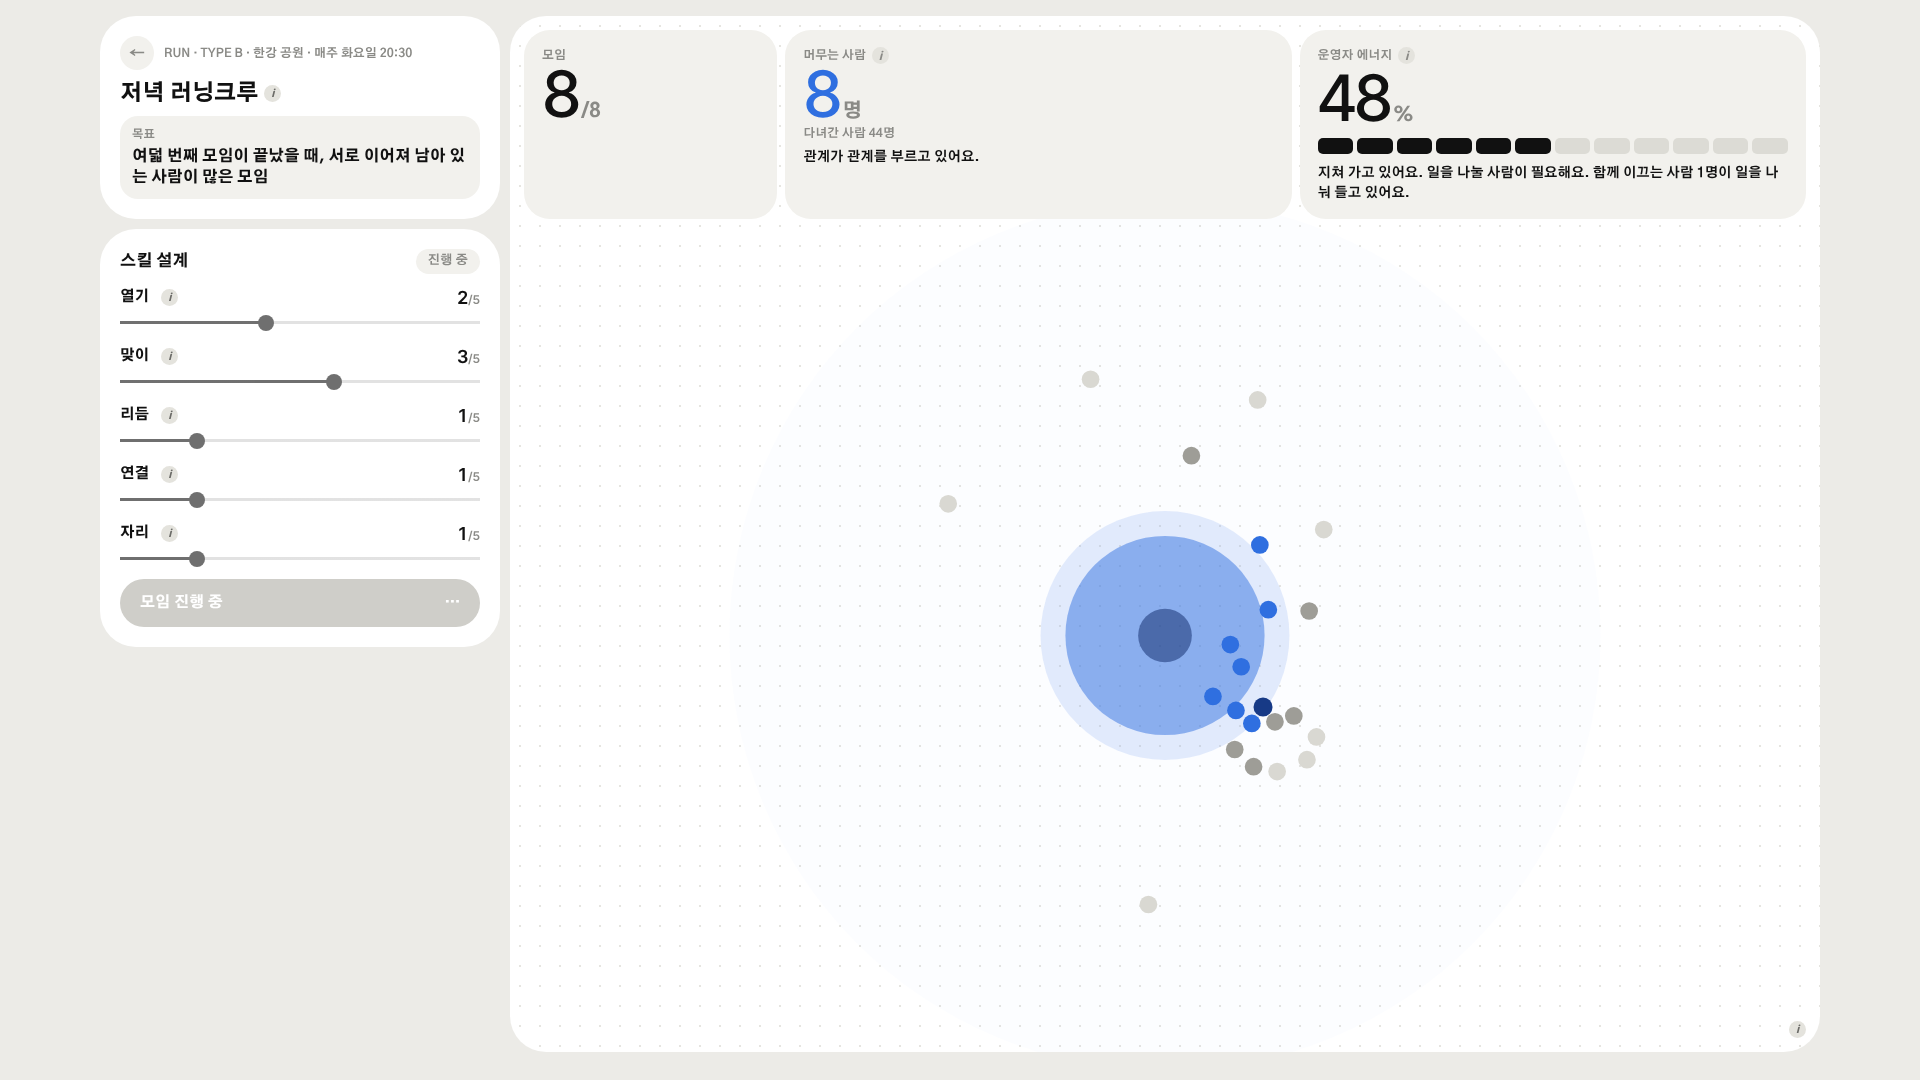
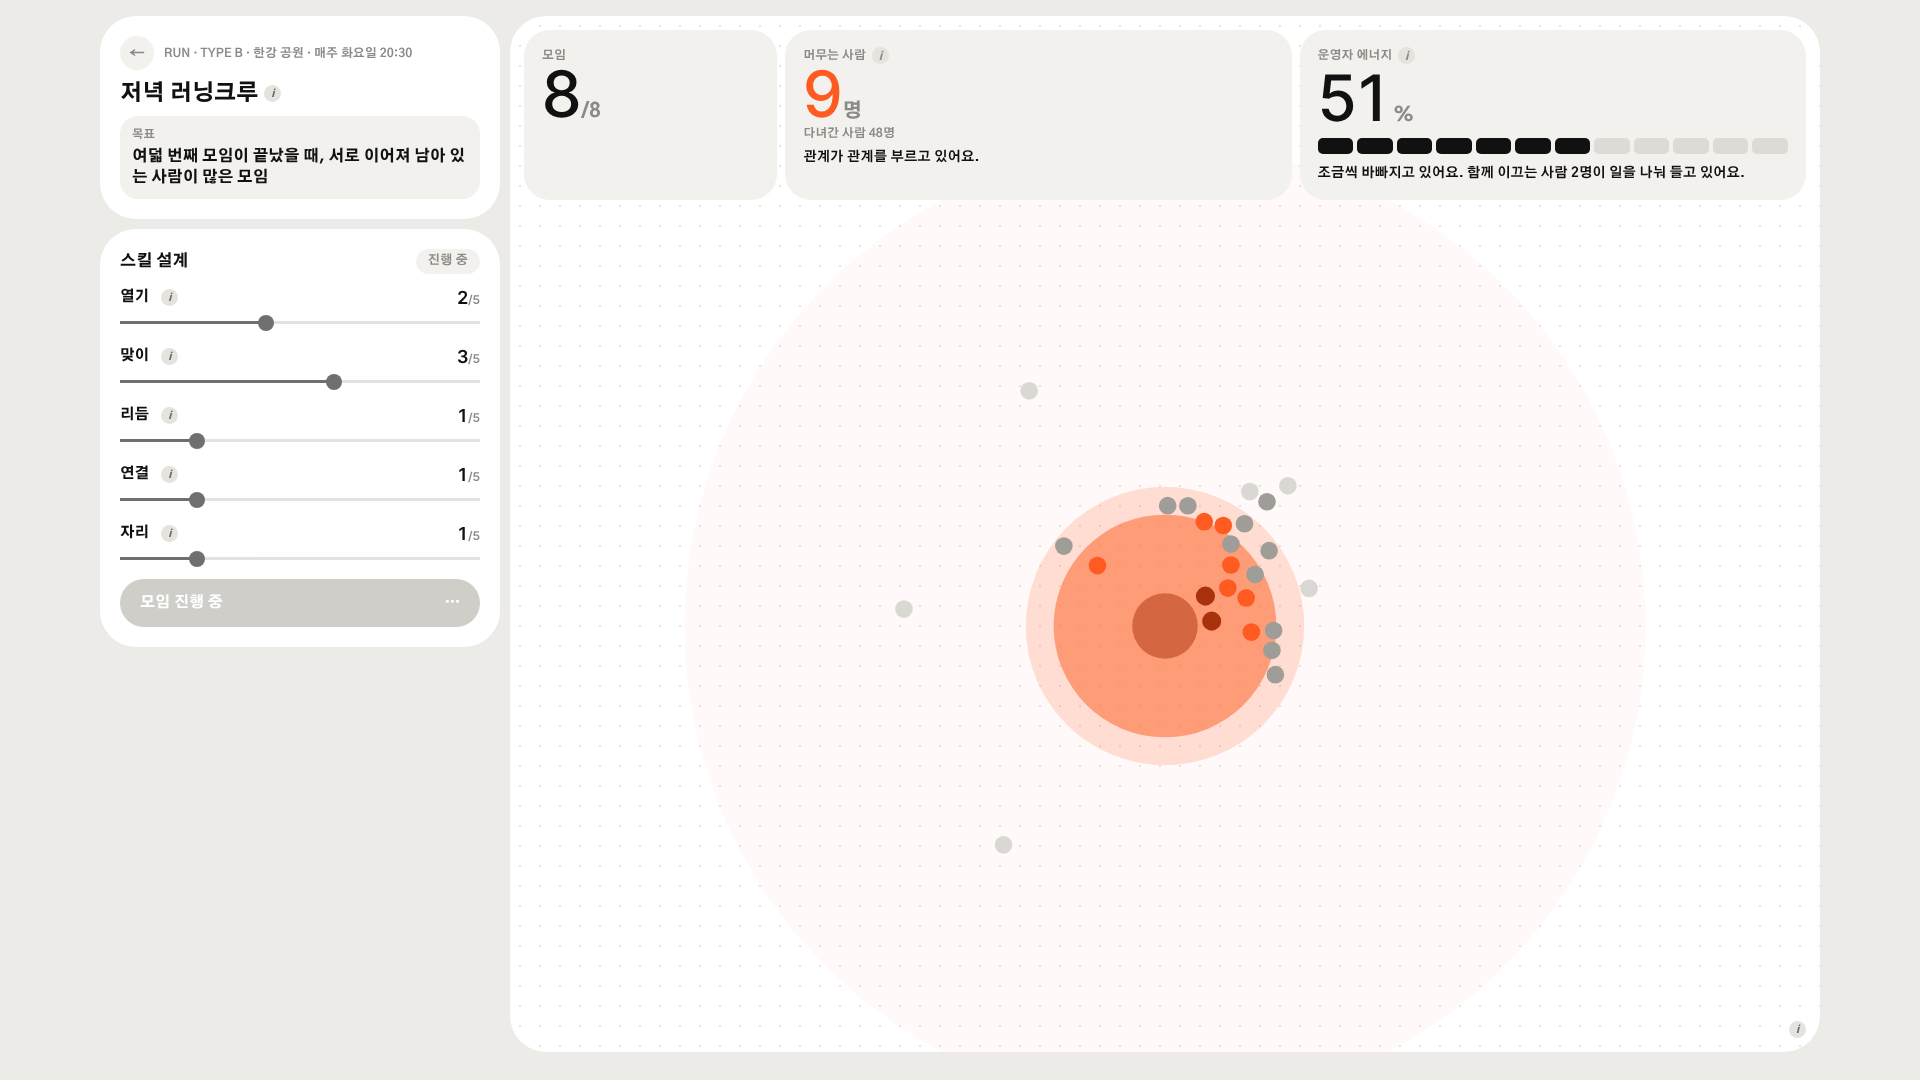
게임 v2.0 시안: 모임별 채도 높은 키 컬러, 모임 고르기 여백, 버튼 '시작하기'
Claude-Session: https://claude.ai/code/session_01SaCvLutmawHZS3kxPWYxw7

diff --git a/thesis/game/moim.v07.src.html b/thesis/game/moim.v07.src.html
@@ -569,6 +569,22 @@ body{background:var(--page)}
 
 /* 화면 높이를 꽉 채움 (전시 모니터) */
 @media (min-width:900px){.intro{min-height:calc(100vh - 44px)}.canvas-wrap{min-height:calc(100vh - 44px)!important}}
+
+/* ───────── v2.0 모임별 키 컬러(채도 높게) + 모임 고르기 여백 ───────── */
+.vchip{background:var(--ink)}
+.lvl2{background:var(--accent-bg)}
+.lvl2 small,.lvl2 b{color:var(--accent)}
+.tool .sk-val ins{color:var(--accent)}
+.e-cards{gap:20px}
+.entry{gap:20px}
+.e-bar{padding:12px 20px}
+.e-img{height:180px}
+.e-head{padding:24px 26px 8px;gap:6px}
+.e-head .ev{right:22px;top:26px}
+.e-cells{padding:12px 18px 0;gap:8px}
+.e-cells .cell{padding:12px 14px}
+.e-txt{padding:18px 26px 22px;gap:10px}
+.e-go{margin:0 18px 18px;padding:14px 18px}
 @media (prefers-reduced-motion:reduce){*{transition:none!important;animation:none!important}}
 </style>
 
@@ -870,14 +886,15 @@ function glyphParts(r,u){
   const tot=Math.max(3,r.total||3),ro=r.rooted||0,le=r.leaders||0,V=r.verdict;
   const coh=clamp((r.links||0)/Math.max(1,ro)/1.4,0,1);
   let halo=u*(.16+tot*.024),core=u*Math.min(.36,.07+ro*.026),mid=core*(1.25+.6*(1-coh));
-  let hc='#a9c6f7',ho=.07+.09*(1-coh),cc='#2f6fe0',co=.25+.72*coh,mc='#7fa6f2',mo=.12+.3*coh;
-  if(V==='closed'){halo=core*1.25;cc='#173a86';co=.95;mc='#2f55b0';mo=.7;}
+  const K=TPAL[r.type]||TPAL.book;
+  let hc=K.mid,ho=.14+.14*(1-coh),cc=K.dark,co=.4+.6*coh,mc=K.dark,mo=.14+.22*coh;
+  if(V==='closed'){halo=core*1.25;cc=K.ink;co=.95;mc=K.dark;mo=.7;}
   if(V==='crowd'){core=Math.max(u*.1,core*.7);mid=core*1.4;ho=.16;}
   if(V==='root'){halo*=.6;co=.3;mo=.12;}
   if(V==='burn'){hc='#c9c8c2';mc='#c9c8c2';}
   const out=[{r:halo,fill:hc,a:ho},{r:mid,fill:mc,a:mo}];
-  if(V==='burn')out.push({r:core,stroke:'#2f6fe0',a:.6,w:u*.05,dash:[u*.09,u*.07]});else out.push({r:core,fill:cc,a:co});
-  if(le)out.push({r:u*(.04+Math.sqrt(le)*.035),fill:'#0d2766',a:1});
+  if(V==='burn')out.push({r:core,stroke:K.dark,a:.7,w:u*.05,dash:[u*.09,u*.07]});else out.push({r:core,fill:cc,a:co});
+  if(le)out.push({r:u*(.04+Math.sqrt(le)*.035),fill:K.ink,a:1});
   return out;
 }
 function commGlyph(r,x,y,u){
@@ -913,7 +930,7 @@ function renderIntro(){
   mapRedraw=null;
   const tip=document.getElementById('htip'),map=app.querySelector('.map');
   const show=(gEl,cx,cy)=>{const r=rows[+gEl.dataset.i],V=VERDICTS[r.verdict],T=TYPES[r.type];
-    tip.innerHTML=`<small>${T.name}${r.example?' · 예시':''}</small><b><i class="dot" style="background:${V.c}"></i>${V.t}</b><p>${V.d}</p><span>머무는 사람 ${r.rooted}명 · 다녀간 사람 ${r.total}명</span>`;
+    tip.innerHTML=`<small>${T.name}${r.example?' · 예시':''}</small><b>${V.t}</b><p>${V.d}</p><span>머무는 사람 ${r.rooted}명 · 다녀간 사람 ${r.total}명</span>`;
     const mb=map.getBoundingClientRect(),w=260;let x=cx-mb.left+14,y=cy-mb.top+14;if(x+w>mb.width-8)x=cx-mb.left-w-14;if(y+150>mb.height)y=cy-mb.top-150;
     tip.style.left=x+'px';tip.style.top=y+'px';tip.classList.add('on');};
   app.querySelectorAll('.cg').forEach(gEl=>{
@@ -923,9 +940,9 @@ function renderIntro(){
     gEl.addEventListener('blur',()=>tip.classList.remove('on'));});
   document.getElementById('start').onclick=()=>{screen='select';render();};
 }
-const TPAL={book:{bg:'#e4ecfb',mid:'#a9c1ef',dark:'#3a68c8',ink:'#1f438f'},
-  run:{bg:'#fbe7e3',mid:'#f2b2a8',dark:'#d24a37',ink:'#8f2c1e'},
-  plog:{bg:'#e3f3e6',mid:'#a3d6ad',dark:'#2f8e48',ink:'#1d5e2f'}};
+const TPAL={book:{bg:'#e3e9ff',mid:'#b3c3ff',dark:'#2f5bff',ink:'#1a2f99'},
+  run:{bg:'#ffe8dd',mid:'#ffbfa3',dark:'#ff5a1f',ink:'#a8320c'},
+  plog:{bg:'#ddf5e6',mid:'#a6e3bd',dark:'#13a352',ink:'#0b6534'}};
 function typeArt(k){
   const P=TPAL[k],W=400,H=190;
   const shape={
@@ -951,7 +968,7 @@ function renderSelect(){
       <div class="e-head"><span class="code">${v.code}</span><span class="ev">${info(`근거 ${v.ev}: 선행연구에서 뽑은 발견 번호예요.`)}</span><span class="sub">${v.name} · ${v.place} · ${v.when} ${v.time}</span></div>
       <div class="cgrid e-cells">${[['유입',v.st[0]],['머무름',v.st[1]],['운영 부담',v.st[2]]].map(([n,x])=>`<div class="cell"><small>${n}</small><b>${x}<em>/5</em></b></div>`).join('')}</div>
       <div class="e-txt"><p><b>특징</b>${v.plus}</p><p class="neg"><b>주의</b>${v.minus}</p></div>
-      <div class="e-go"><span>이 모임 운영하기</span><span>▶</span></div></button>`;}).join('')}</div>
+      <div class="e-go"><span>시작하기</span><span>▶</span></div></button>`;}).join('')}</div>
     </section>`;
   app.querySelectorAll('.ecard').forEach(b=>b.onclick=()=>newGame(b.dataset.t));
   document.getElementById('back').onclick=()=>{screen='intro';render();};
@@ -961,7 +978,7 @@ function renderSelect(){
 function log(s){logLines.push(s);}
 function renderTool(){
   const T=TYPES[st.type];
-  app.innerHTML=`<div class="tool">
+  app.innerHTML=`<div class="tool" style="--accent:${TPAL[st.type].dark};--accent-ink:${TPAL[st.type].ink};--accent-bg:${TPAL[st.type].bg}">
     <div class="panel" id="panel"></div>
     <div class="canvas-wrap"><canvas id="cv" role="img" aria-label="모임 현장: 바깥에서 안쪽으로 처음 온 사람, 다시 온 사람, 자리 잡은 사람, 함께 이끄는 사람"></canvas>
       <div class="c-top"><span><span class="latin">${T.en}</span> · ${T.name} · <span id="mt"></span></span></div>
@@ -1107,7 +1124,7 @@ function loop(){
   ctx.globalAlpha=1;
   // 사람
   for(const p of st.people){const r=(p.stage===3?14:13)*d;
-    figure(cx+p.x*S,cy+p.y*S,r,STAGE_C[p.stage],false,p.leaving?p.alpha*.6:p.alpha);}
+    figure(cx+p.x*S,cy+p.y*S,r,p.stage<2?STAGE_C[p.stage]:(p.stage===2?TPAL[st.type].dark:TPAL[st.type].ink),false,p.leaving?p.alpha*.6:p.alpha);}
   ctx.globalAlpha=1;
   // 사람마다 무슨 일이 있었는지
   ctx.font=`800 ${12*d}px Pretendard,sans-serif`;ctx.textAlign='center';
@@ -1126,11 +1143,11 @@ function renderReport(){
   const better=real.length>1?Math.round(real.filter(p=>p.rooted<r.rooted).length/real.length*100):null;
   const g={'소속감':clamp(15+10*k.rhythm+6*k.conn-(k.open>=4?10:0),0,100),'영향력':clamp(10+15*k.roles+5*r.leaders,0,100),
     '욕구 충족':clamp(20+8*k.rhythm+8*k.welcome,0,100),'정서적 연결':clamp(10+12*k.conn+Math.min(30,r.links*2),0,100)};
-  app.innerHTML=`<section class="case2">
+  app.innerHTML=`<section class="case2" style="--accent:${TPAL[r.type].dark};--accent-bg:${TPAL[r.type].bg}">
     <div class="c2-l">
       <span class="no"><button class="back" id="home2" aria-label="처음 화면으로">←</button>CASE No. ${caseNo} · ${new Date(r.t).toLocaleDateString('ko-KR')}</span>
       <h1>${T.name}</h1>
-      <span class="vchip" style="background:${V.c}">${V.t}</span>
+      <span class="vchip">${V.t}</span>
       <p>${V.d}</p>
       <div class="photo2">${st.photo?`<img src="${st.photo}" alt="여덟 번째 모임이 끝난 뒤 모임의 모습">`:''}<div class="cap"><span>EVIDENCE</span><span>여덟 번째 모임 뒤</span></div></div>
     </div>

diff --git a/thesis/26-game-prototype.md b/thesis/26-game-prototype.md
@@ -158,3 +158,10 @@
 - 전시 모니터용: 첫 화면과 시뮬레이션 화면이 화면 높이를 꽉 채움
 - 끝 장면의 원 그림을 반투명(50%)으로 겹쳐 그 위의 점이 보이게
 - 전체 흐름 캡처(1920×1080): game/screens_flow/
+
+## v2.0 시안 (2026-10-28)
+- 연구자: 모임 고르기 화면이 가장 좋음, 여백만 넉넉하게 / 버튼 문구 "시작하기" / BOOK·RUN·PLOG의 색을 키 컬러로, 원이 그려질 때도 그 색 / 전체 톤이 죽어 보이니 채도 있는 색을 잘 쓰기
+- 키 컬러(채도 높임): BOOK #2f5bff, RUN #ff5a1f, PLOG #13a352 (각각 옅은 바탕·중간 톤·진한 톤 포함)
+- 키 컬러를 쓰는 곳: 모임 카드, 첫 화면의 원(모임마다 자기 색), 시뮬레이션의 머무는 사람 점(자리 잡음 = 키 컬러, 이끄는 사람 = 진한 톤)과 숫자, 레벨업 상자, 끝 장면의 원, 결과의 큰 숫자
+- 부딪히는 색 정리: 결과 유형 칩은 검정, 첫 화면 말풍선의 유형 색 점 삭제
+- 모임 고르기 여백: 카드 사이 20px, 카드 안쪽 여백 26px 안팎, 그림 높이 180px
